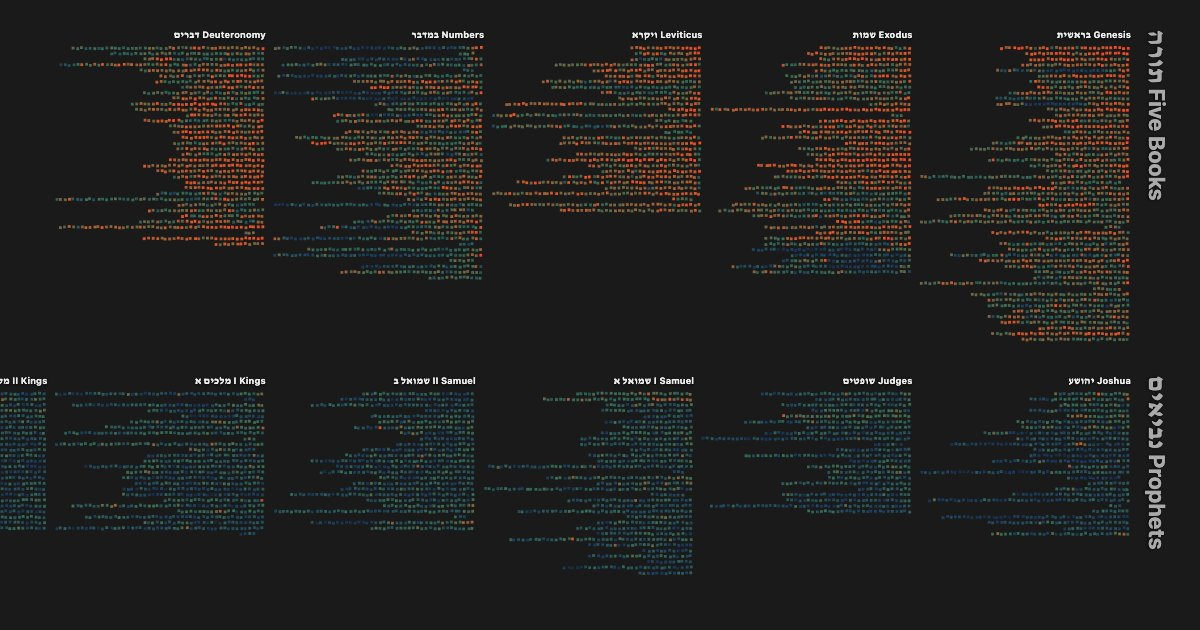
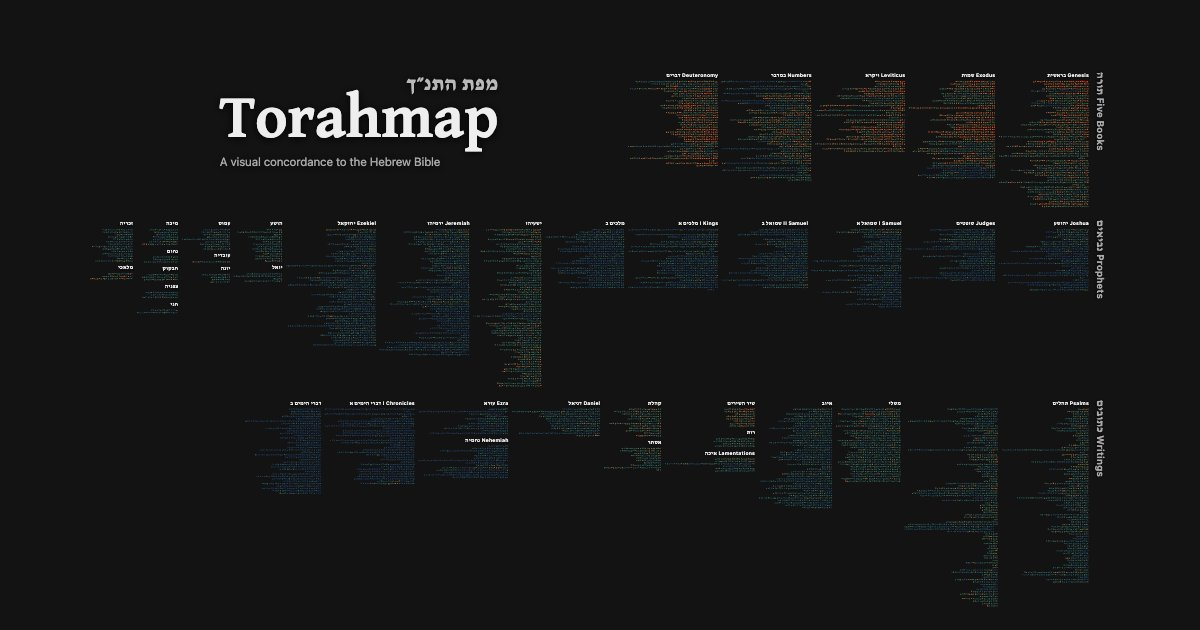
Share cards: the Tanakh's shows the whole map, the VIS card is titled
Claude-Session: https://claude.ai/code/session_01DBAPtZoiNH14vcZbZFmLgJ

diff --git a/apps/tanakh/src/page.ts b/apps/tanakh/src/page.ts
@@ -10,7 +10,7 @@ export const TANAKH_PAGE: PageCopy = {
   url: `${ORIGIN}${TANAKH_PATH}`,
   image: {
     url: `${ORIGIN}/og-image.jpg`,
-    alt: 'The five books of the Torah above the first books of the Prophets, each verse a small square colored by how much commentary it has.',
+    alt: 'The whole Hebrew Bible, Torah, Prophets and Writings, each verse a small square colored by how much commentary it has.',
   },
   noScript:
     'Torahmap lays out all 23,000 verses of the Hebrew Bible — Torah, Prophets and Writings — as colored squares, each in a fixed place, so that search results, commentary and haftarah readings show their patterns across the whole text.',
